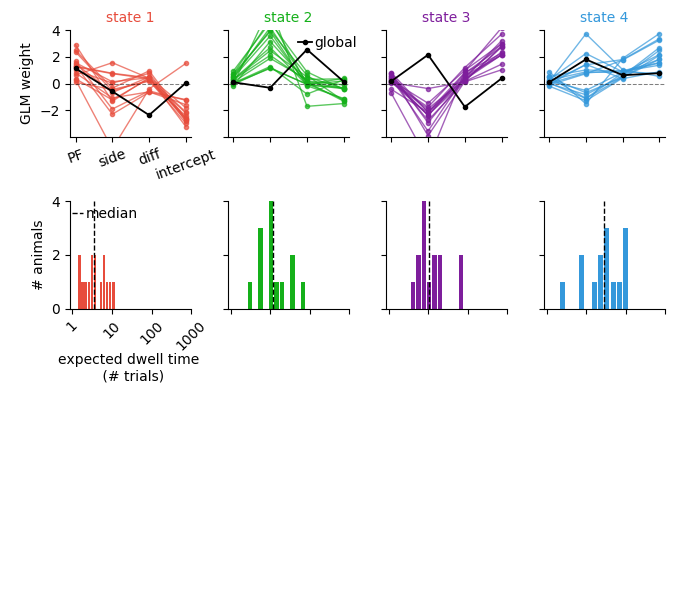
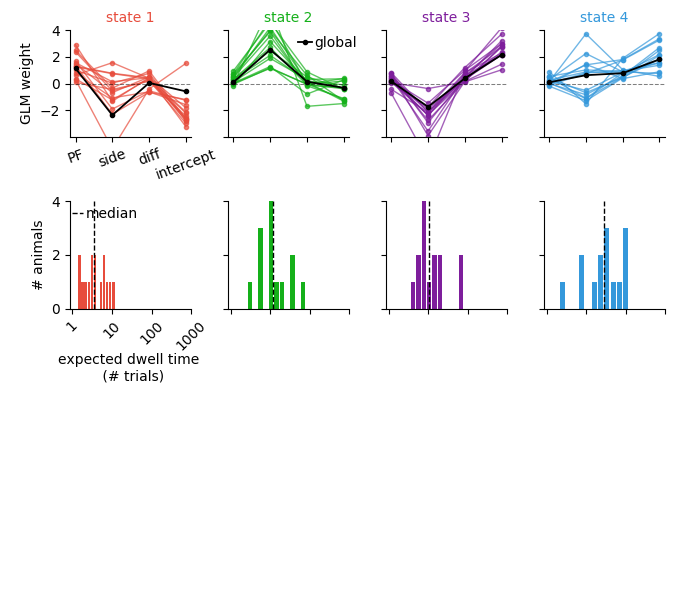
modified fig 5 om accurracy

diff --git a/om_glm_hmm/3_make_figures/figure_5/1_make_plots_5def.py b/om_glm_hmm/3_make_figures/figure_5/1_make_plots_5def.py
@@ -97,10 +97,10 @@ if __name__ == '__main__':
             plt.ylabel("GLM weight", fontsize=10)
         else:
             plt.yticks([-4, -2, 0, 2, 4], ['','', '', '', ''])
-            plt.xticks([0, 1, 2, 3], ['', '', '', ''])
+            plt.xticks(np.arange(len(labels_for_plot)), ['', '', '', ''])
         plt.title("state " + str(k + 1), fontsize=10, color=cols[k])
         plt.plot(range(M + 1),
-                 global_weights[k][0][[0, 3, 1, 2]],
+                 global_weights[k][0][np.arange(len(labels_for_plot))],
                  '-o',
                  color='k',
                  lw=1.3,
